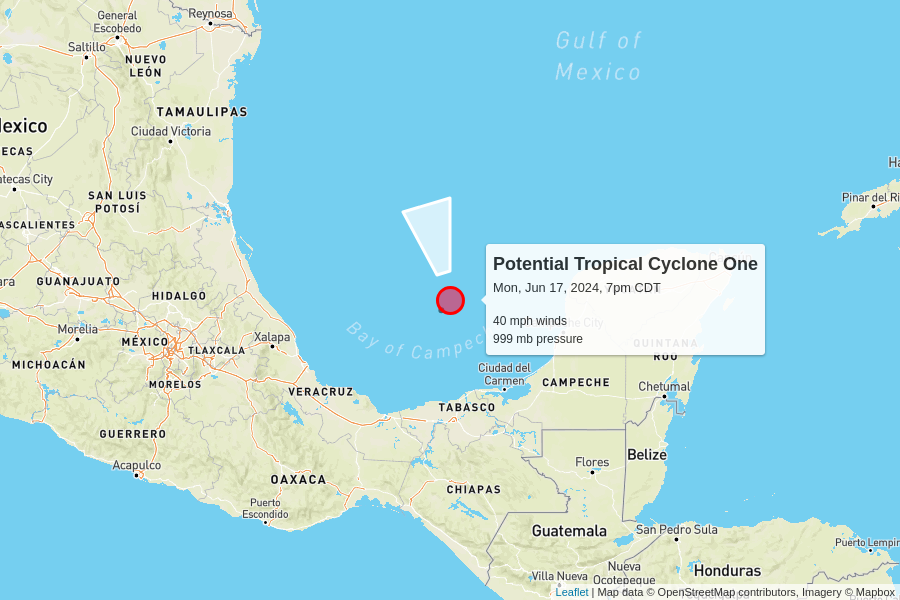
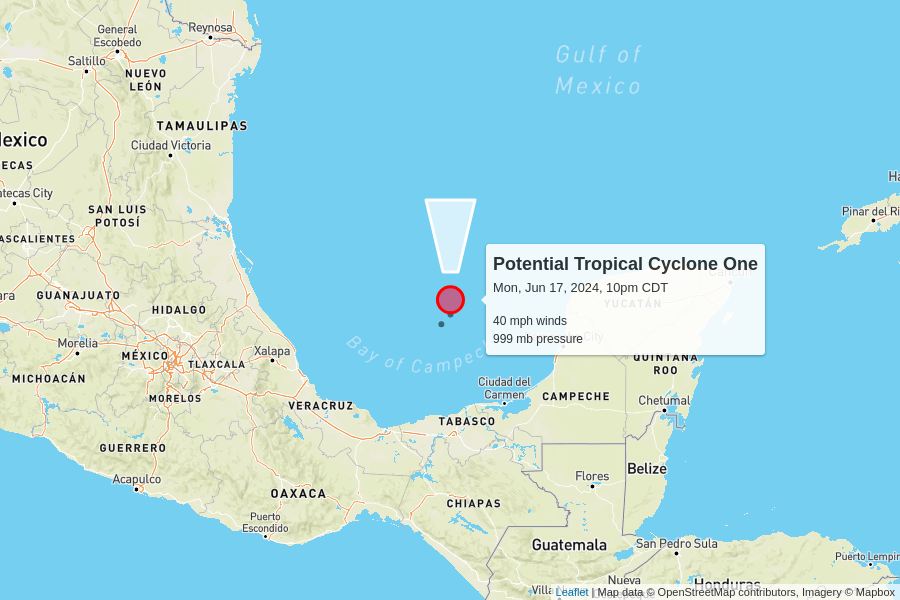
automatic update

diff --git a/docs/index.html b/docs/index.html
@@ -102,7 +102,7 @@
         <td colspan="6" class="storm category-0" >
           <h2>
             Potential Tropical Cyclone One
-            <p class="updated">last updated <span data-time>2024-06-18T00:00:00.000Z</span></p>
+            <p class="updated">last updated <span data-time>2024-06-18T03:00:00.000Z</span></p>
           </h2>
         </td>
       </tr>
@@ -118,11 +118,11 @@
       <tr>
         <td class="spacer"></td>
         <td>40 mph<br>0 mph since last update</td>
-        <td>999 mb<br>-2 mb since last update</td>
+        <td>999 mb<br>0 mb since last update</td>
         <td>
-          7 mph to the north-northwest
+          7 mph to the north
           <br/>
-          <span style="display: inline-block; font-size: 1.5em; transform: rotate(345deg);">↑</span>
+          <span style="display: inline-block; font-size: 1.5em; transform: rotate(360deg);">↑</span>
         </td>
         <td><a href="https://raw.githubusercontent.com/mgwalker/atlantic-hurricanes/main/data/csv/AL012024.csv">AL012024.csv</a></td>
         <td><a href="https://www.nhc.noaa.gov/archive/2024/ONE.shtml?">NHC advisories</a></td>
